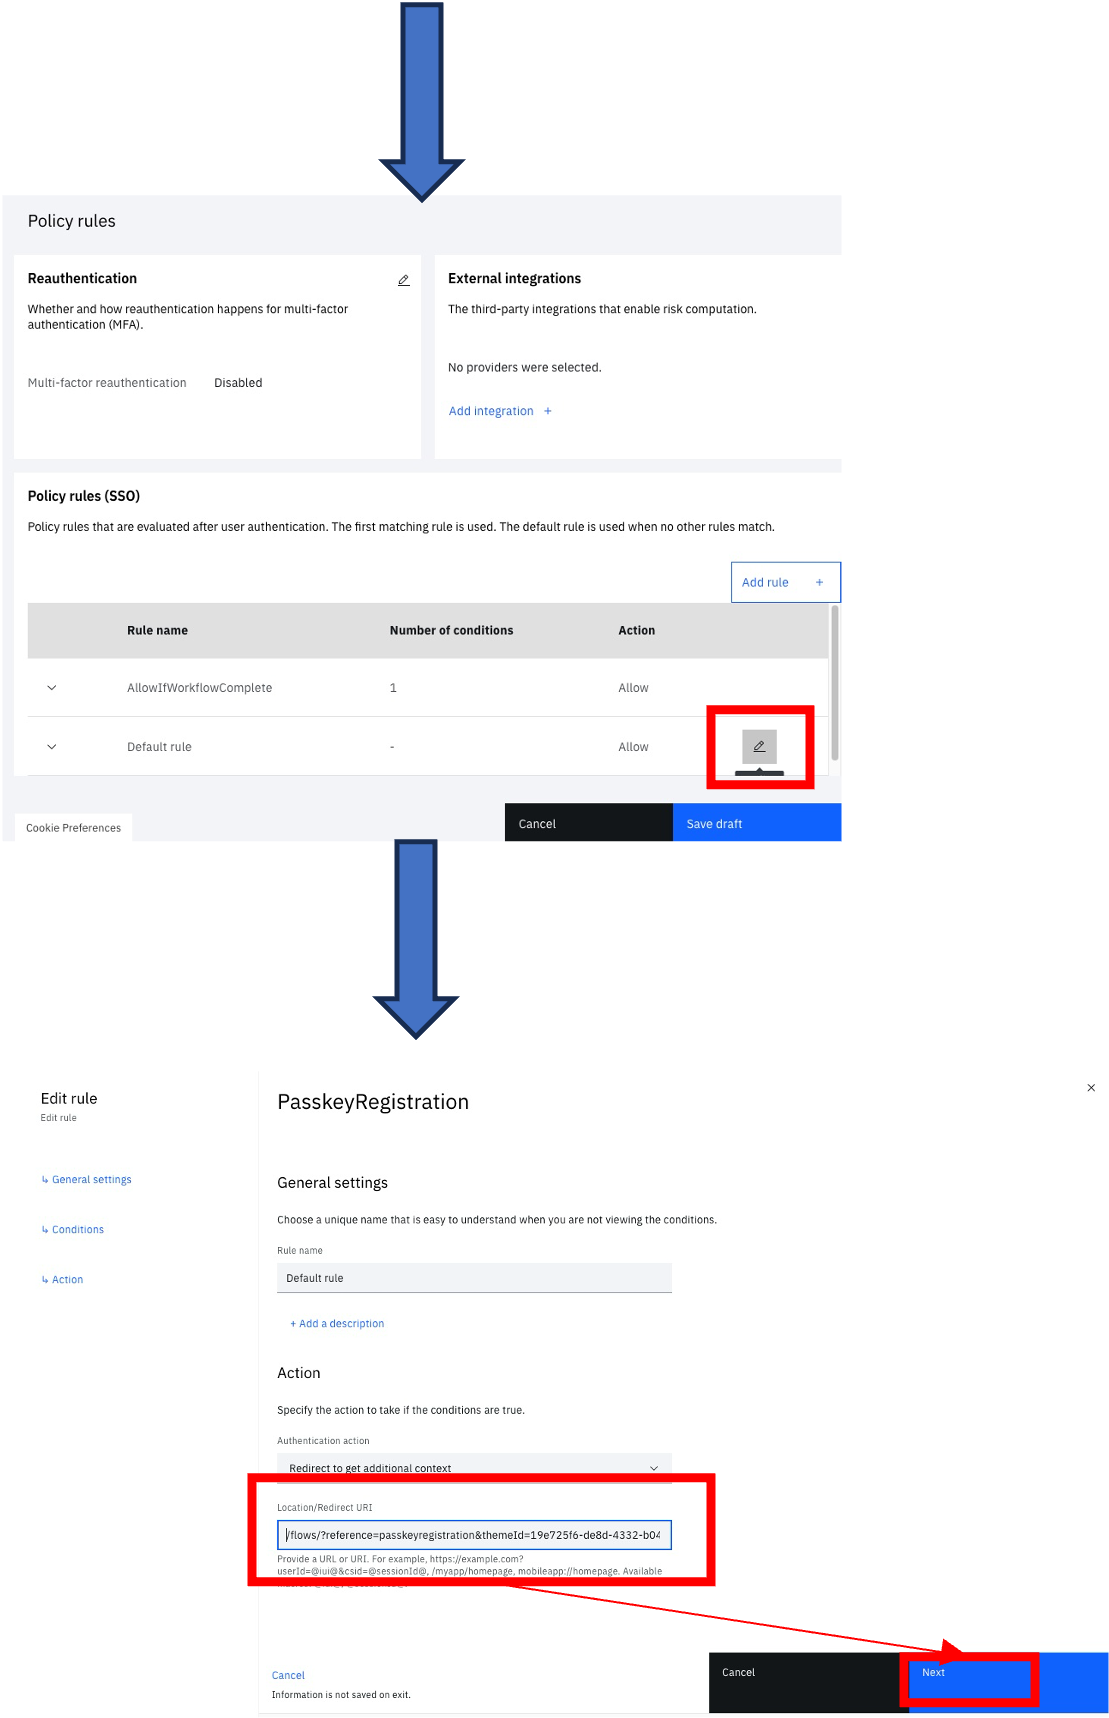
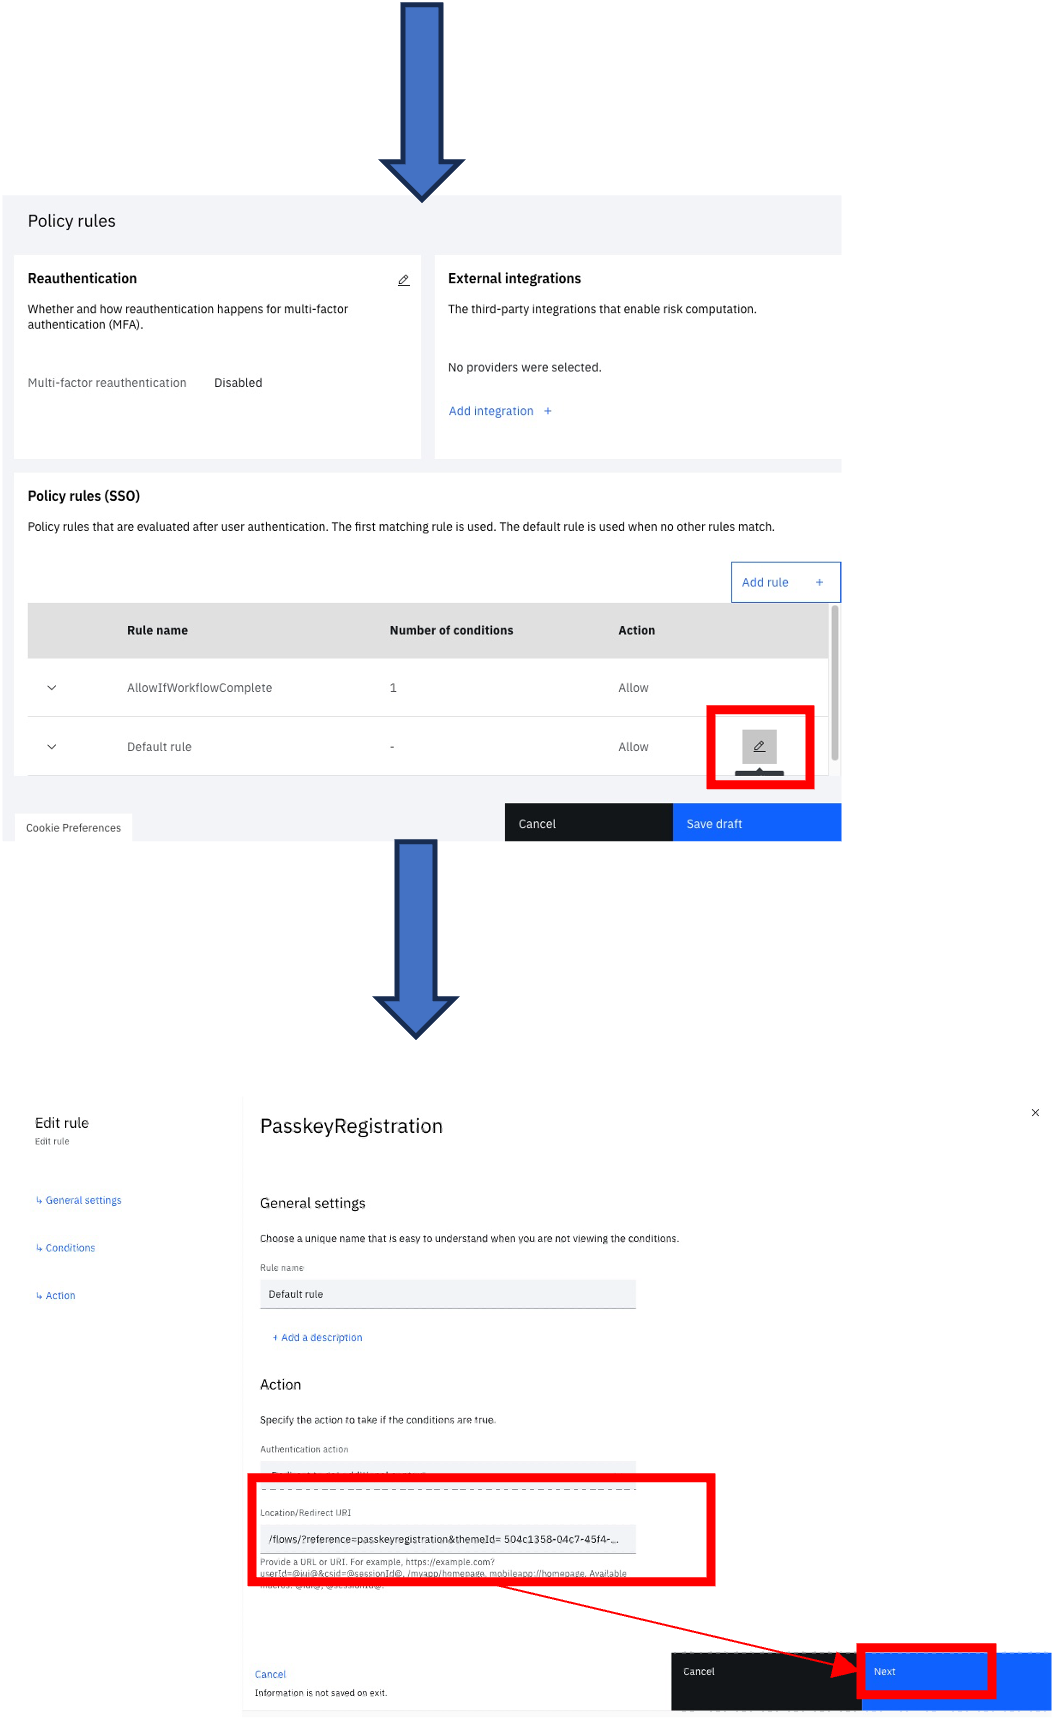
update readme

diff --git a/isv_authn_flows/passkey_registration/readme.md b/isv_authn_flows/passkey_registration/readme.md
@@ -99,7 +99,11 @@ The Access policy to be created has two rules:
    - Default: Redirect to the workflow
 
 
-The following diagram shows how to create the `Passkey Registration` access policy:
+The following diagram shows how to create the `Passkey Registration` access policy. Note that in the editing of the `Default rule`, we change the action to `Redirect to get additional context` and have to provide a redirect URL.
+
+The redirect URL is a server-relative URL to redirect to the solicited passkey workflow, following the pattern `/flows/?reference=<your_workflow_name>&themeId=<your_theme_id>`.
+
+Following on from the earlier example of how to capture your custom themeid, the redirect URL in this example is: `/flows/?reference=passkeyreg&themeId=504c1358-04c7-45f4-b7b6-4dde17f1211a`
 
 ![create access policy 1](images/create_access_policy_1.png?raw=true)
 ![create access policy 2](images/create_access_policy_2.png?raw=true)
